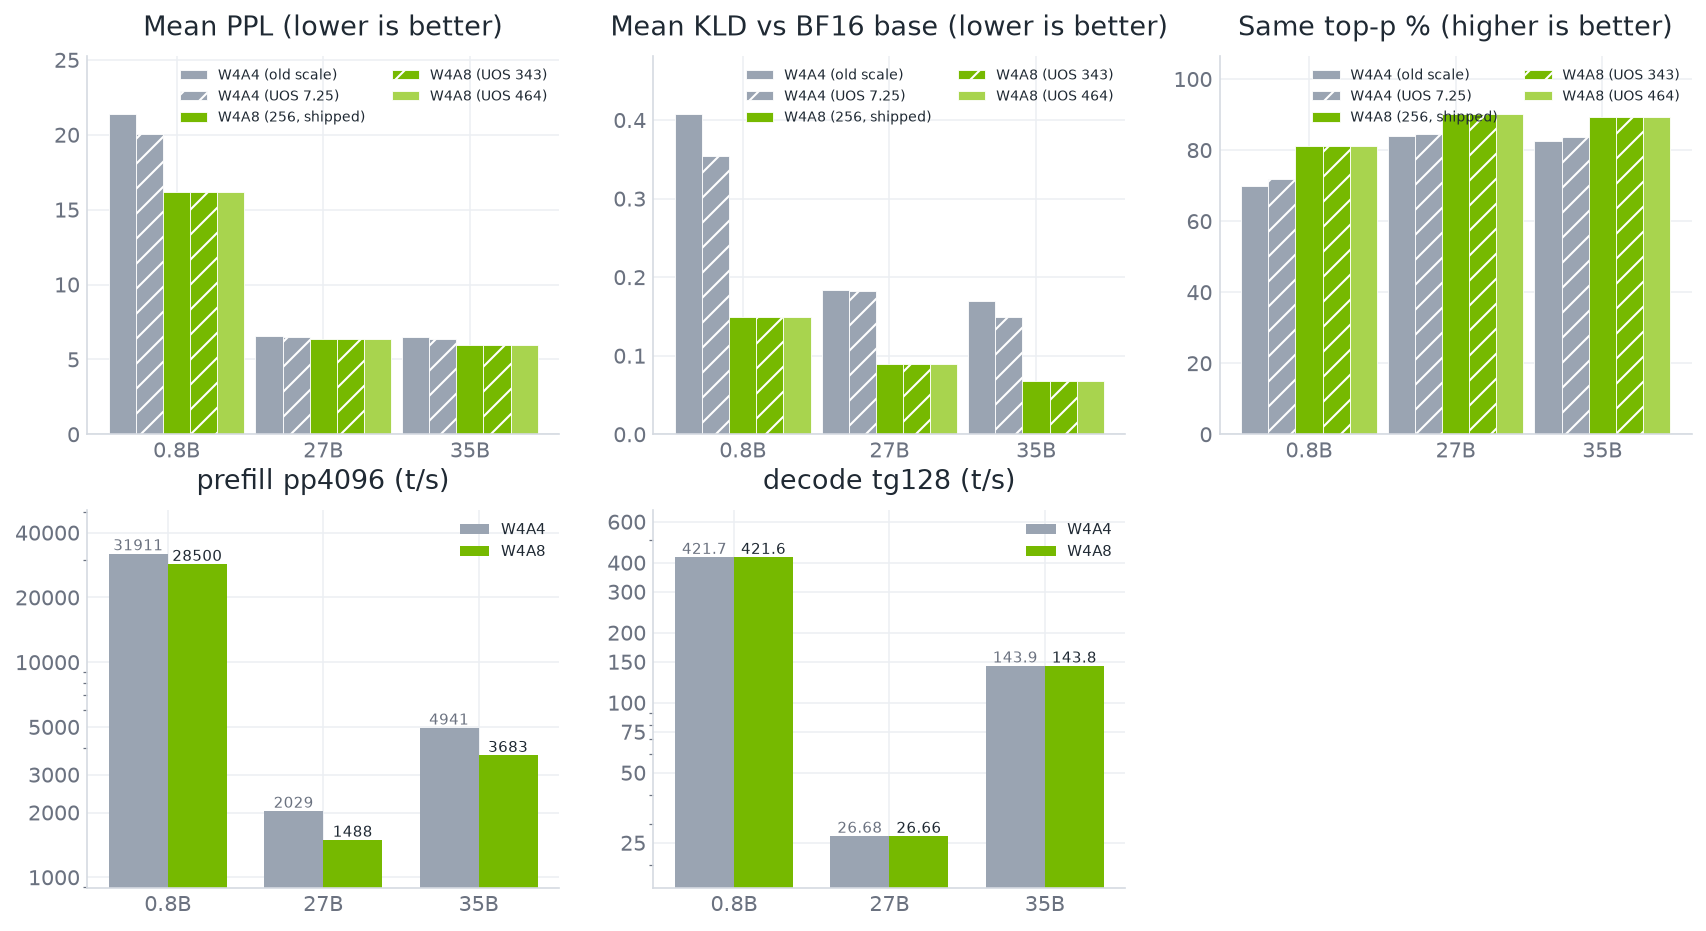
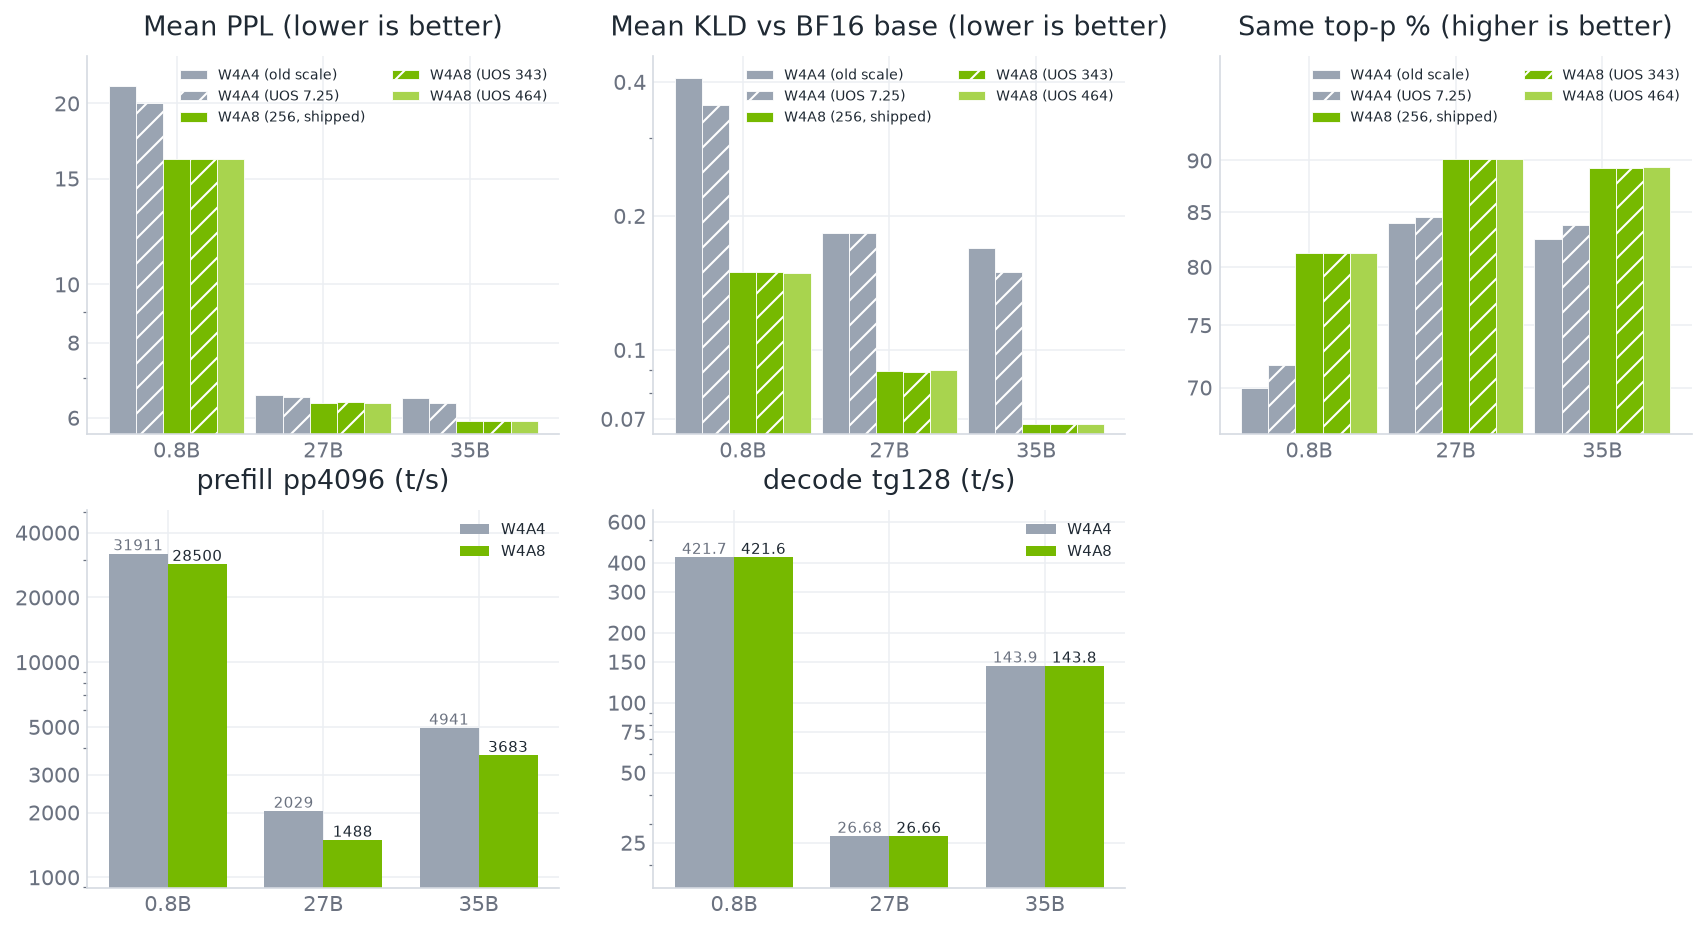
w4a8 chart: top 3 panels log scale with plain-number ticks

diff --git a/charts.py b/charts.py
@@ -379,12 +379,13 @@ KVDATA = {
 
 
 def w4a8_vs_w4a4():
+    from matplotlib.ticker import FuncFormatter
     fig, ax = new_figure(2, 3, w=4.6, h=3.6)
     models = list(W4A5.keys())
-    acc = [("Mean PPL (lower is better)", 0),
-           ("Mean KLD vs BF16 base (lower is better)", 1),
-           ("Same top-p % (higher is better)", 2)]
-    for col, (title, idx) in enumerate(acc):
+    acc = [("Mean PPL (lower is better)", 0, [6, 8, 10, 15, 20]),
+           ("Mean KLD vs BF16 base (lower is better)", 1, [0.07, 0.1, 0.2, 0.4]),
+           ("Same top-p % (higher is better)", 2, [70, 75, 80, 85, 90])]
+    for col, (title, idx, yticks) in enumerate(acc):
         style_axes(ax[col], title=title)
         x = np.arange(len(models))
         w = 0.185
@@ -395,7 +396,13 @@ def w4a8_vs_w4a4():
             ax[col].bar(x + off, v, width=w, color=c, hatch=h, label=W4A_LABEL[s],
                         edgecolor="white", linewidth=0.4)
         ax[col].set_xticks(x); ax[col].set_xticklabels(models)
-        ax[col].set_ylim(0, max(W4A5[m][s][idx] for m in models for s in W4A_SERIES) * 1.18)
+        vmin = min(W4A5[m][s][idx] for m in models for s in W4A_SERIES)
+        vmax = max(W4A5[m][s][idx] for m in models for s in W4A_SERIES)
+        ax[col].set_yscale("log")
+        ax[col].set_yticks(yticks)
+        ax[col].yaxis.set_major_formatter(FuncFormatter(lambda v, _: f"{v:g}"))
+        ax[col].tick_params(which="minor", labelleft=False, labelbottom=False)
+        ax[col].set_ylim(vmin * 0.95, vmax * 1.12)
         ax[col].legend(frameon=False, fontsize=6.5, loc="upper right", ncol=2)
     ax[5].set_visible(False)
     spd = [("prefill pp4096 (t/s)", 0, [1000, 2000, 3000, 5000, 10000, 20000, 40000]),
